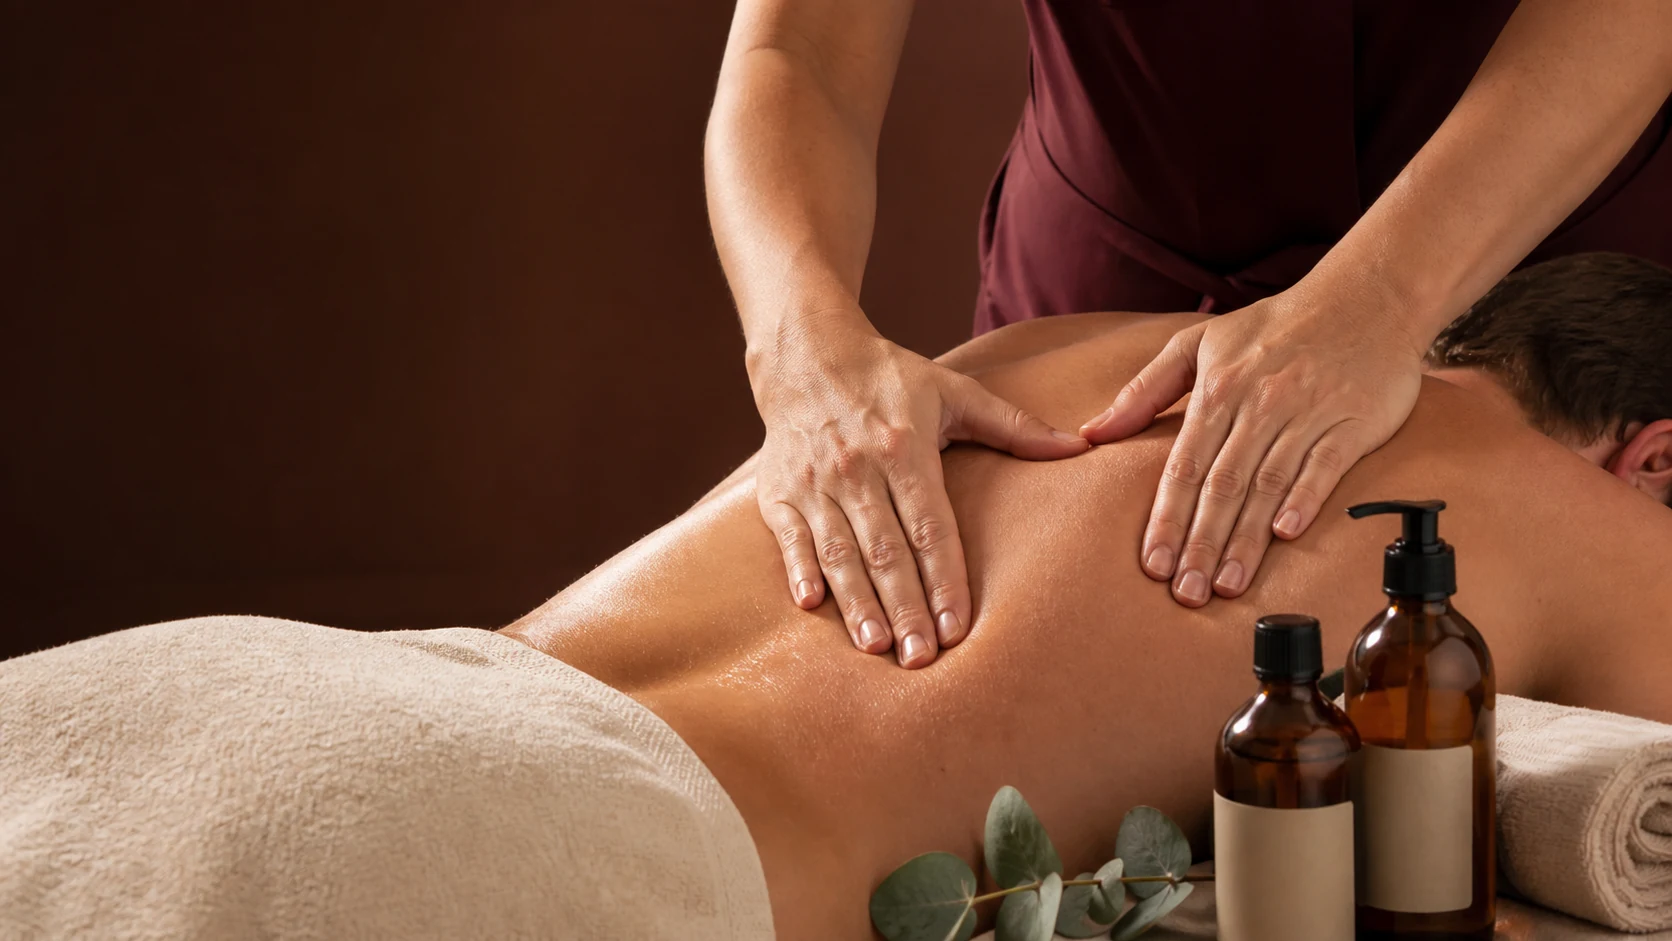
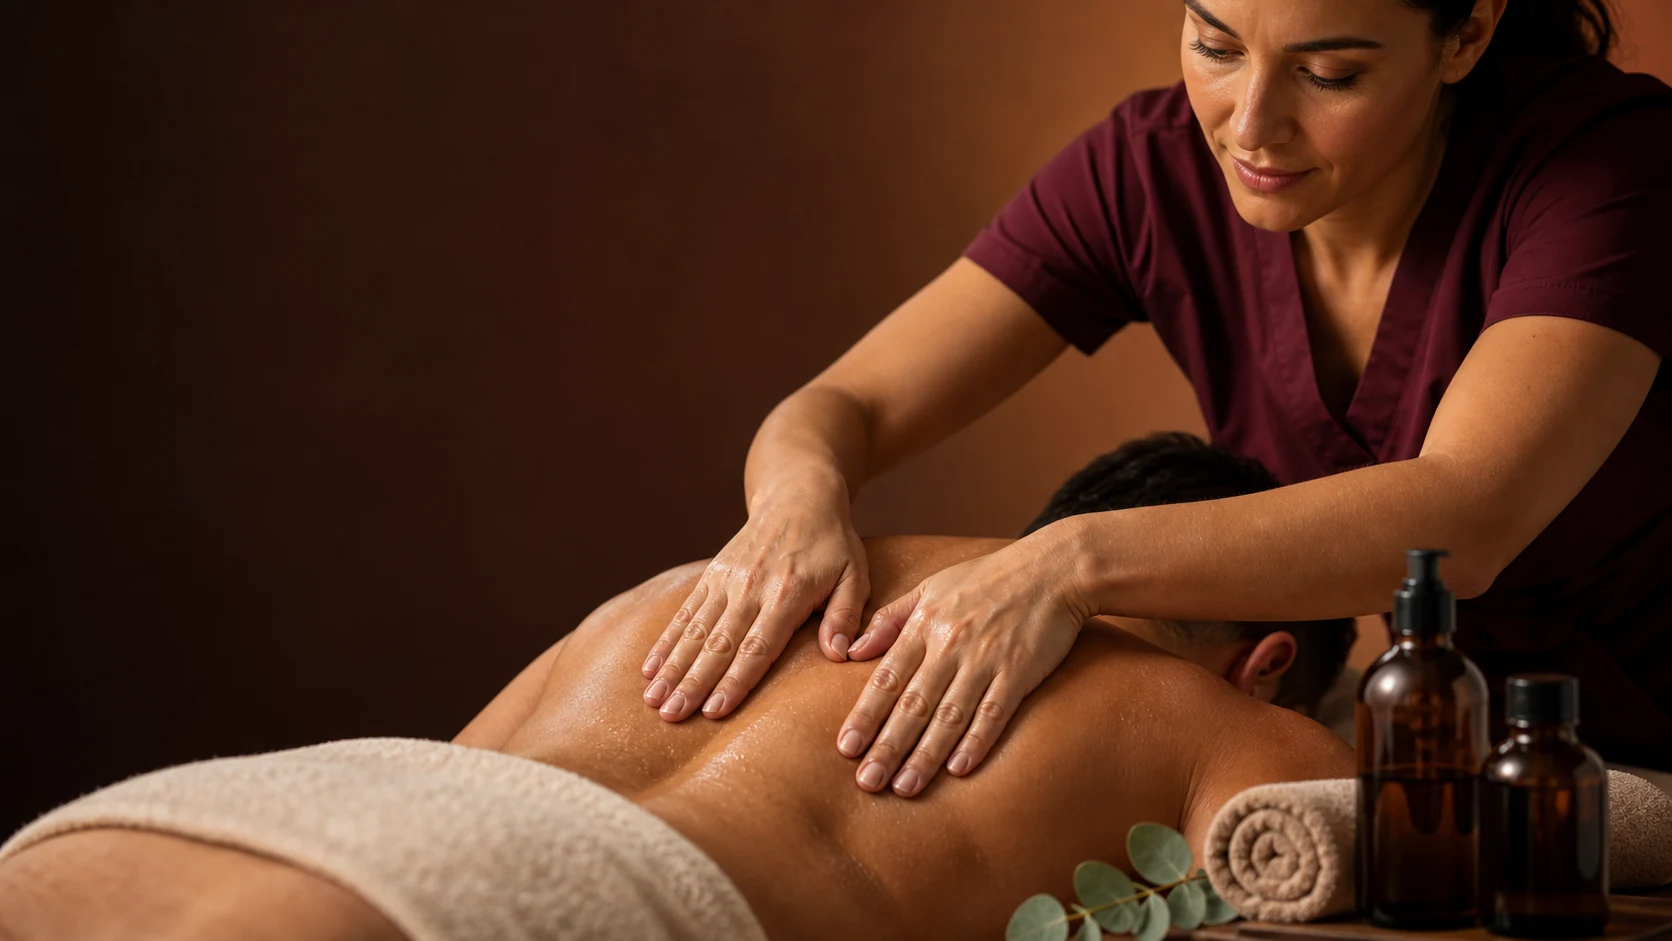
Rendi femminile la scena massaggio hero

diff --git a/index.html b/index.html
@@ -46,7 +46,7 @@
   <main id="top">
     <section class="hero">
       <div class="hero-frame reveal">
-        <img src="assets/img/hero/hero-massaggio-professionale-comeleapi.webp?v=20260716-hero-professional-v2" alt="Trattamento professionale con oli da massaggio in uno studio dai toni caldi" loading="eager" fetchpriority="high" />
+        <img src="assets/img/hero/hero-massaggio-professionale-comeleapi.webp?v=20260716-hero-professional-v3" alt="Trattamento professionale con oli da massaggio in uno studio dai toni caldi" loading="eager" fetchpriority="high" />
         <div class="hero-overlay">
           <h1 class="hero-title">Vola verso il tuo benessere</h1>
         </div>